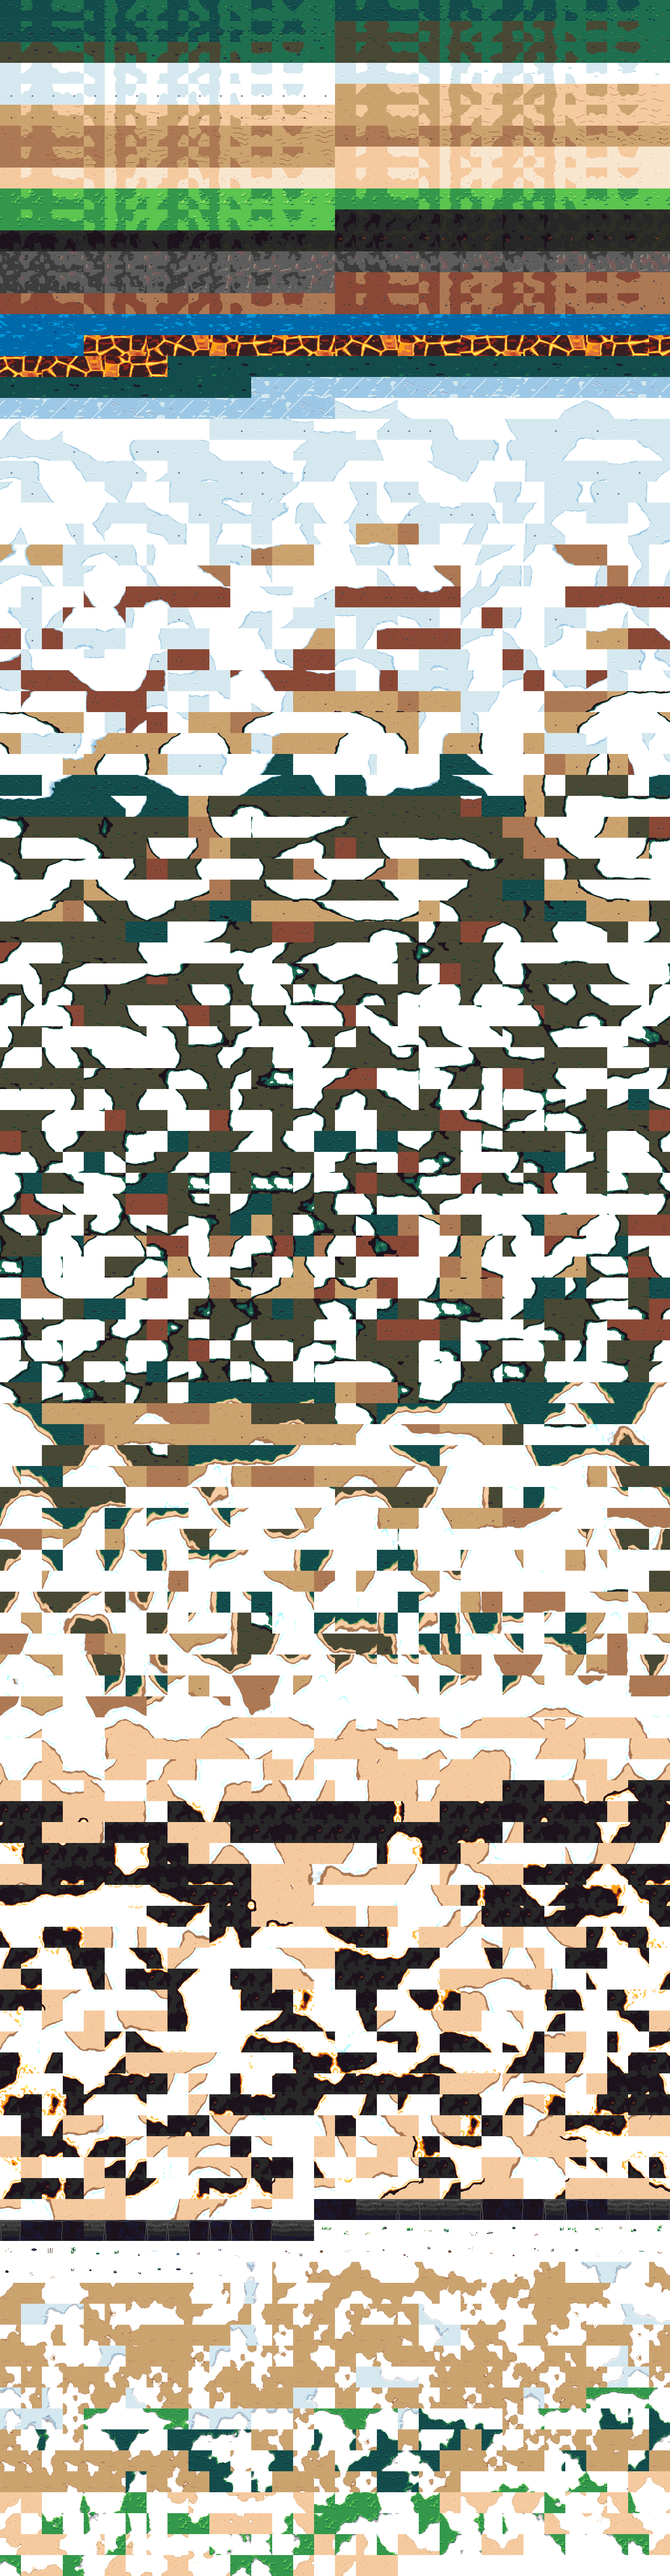
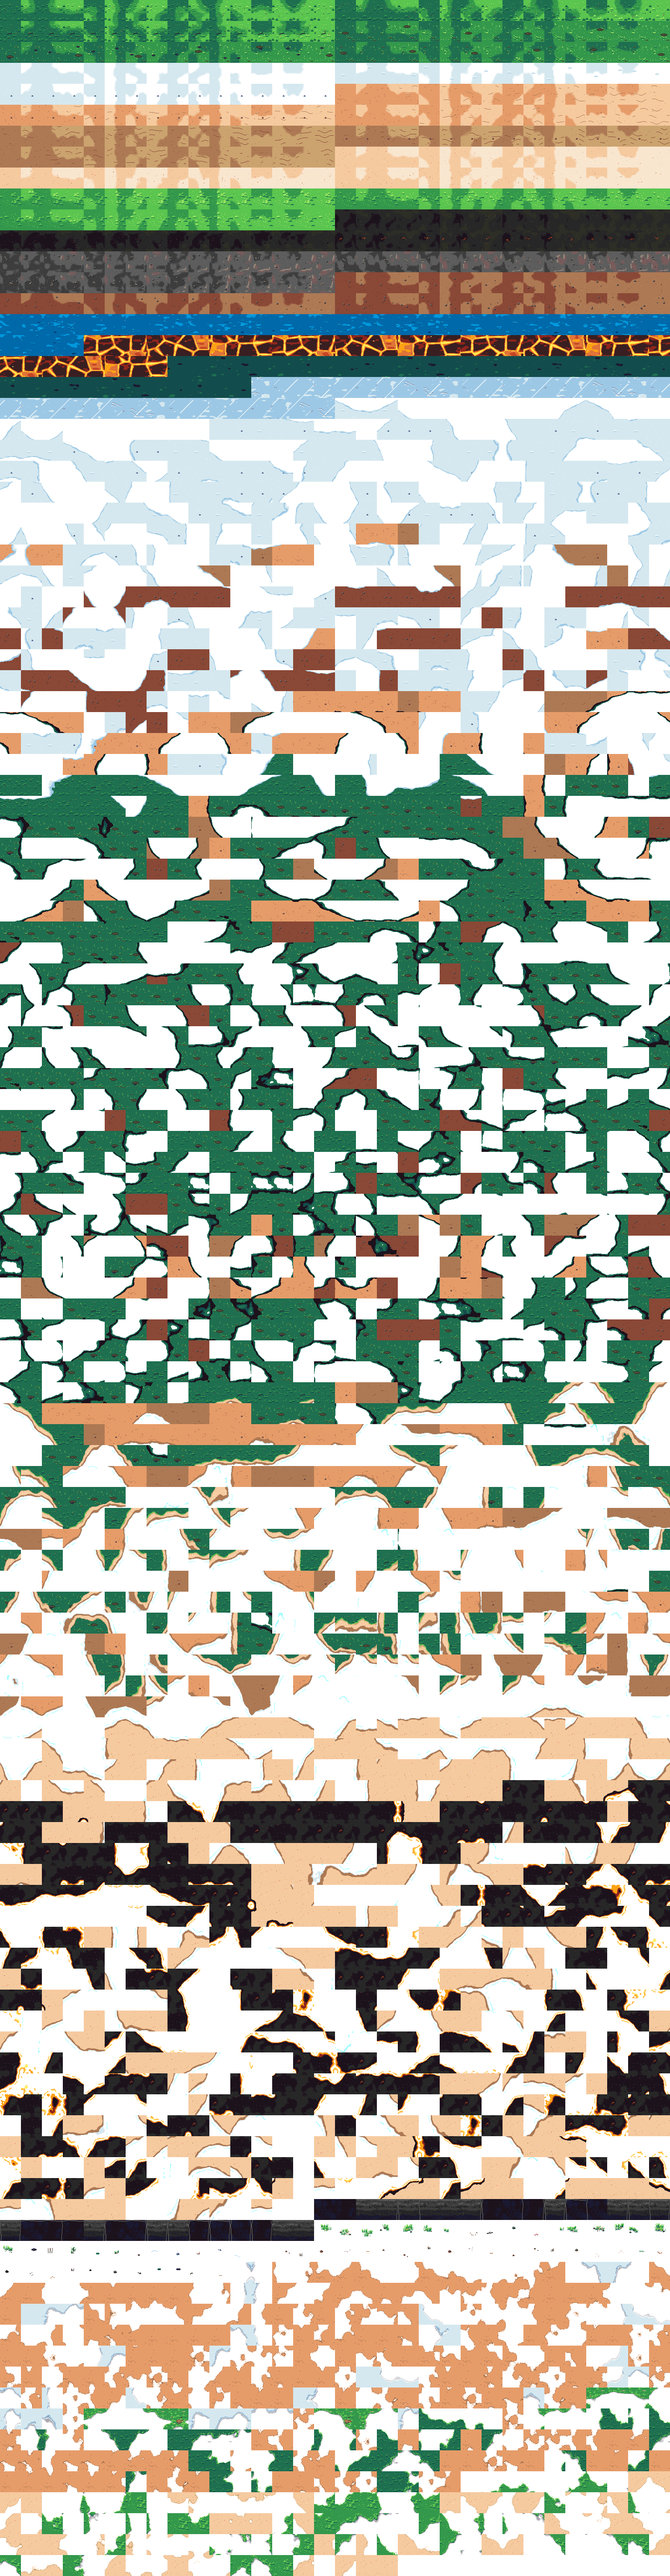
Chao: atlas extrudado (sem linhas azuis), grama 3 tons com dithering, vale naturalista regenerado, rotulos de placa unicos; ferramentas terrain-preview e generate-grass-sheet

diff --git a/src/game/RegionWorld.js b/src/game/RegionWorld.js
@@ -25,6 +25,8 @@ const CHUNK = 16;
 const GRASS_GID = 1;
 const TERRAIN_GID = 100;
 const UNDER_GID = 3000;
+const EXTRUDE = 1;
+const HINT_RANGE = 120;
 const SUBS = UNDER_SUBTILES * UNDER_SUBTILES;
 // Camada de baixo: mar (bloqueia), mar sob a borda, lava (bloqueia), lava sob a borda, lodo e gelo.
 const UNDER_SLOTS = [[T.SEA, true], [T.SEA, false], [T.LAVA, true], [T.LAVA, false], [T.MURK, false], [T.ICE, false]];
@@ -118,9 +120,11 @@ export class RegionWorld {
     // Evita sangramento de pixels entre células do atlas quando a câmera se move
     // em posições fracionárias (as linhas finas apareciam entre terrenos).
     scene.textures.get('grass')?.setFilter(Phaser.Textures.FilterMode.NEAREST);
-    scene.textures.get('terrain-tiles')?.setFilter(Phaser.Textures.FilterMode.NEAREST);
+    // Atlas com 1 px de borda repetida por ladrilho: com zoom fracionário (PC, 1,5x) a GPU lia o ladrilho
+    // vizinho do atlas e desenhava uma linha de 1 px (ex.: azul de água) nas emendas do chão.
+    const terrainKey = this.extrudeTileset('terrain-tiles');
     const grass = map.addTilesetImage('grass', 'grass', TILE, TILE, 0, 0, GRASS_GID);
-    const terrain = map.addTilesetImage('terrain', 'terrain-tiles', TILE, TILE, 0, 0, TERRAIN_GID);
+    const terrain = map.addTilesetImage('terrain', terrainKey, TILE, TILE, EXTRUDE, EXTRUDE * 2, TERRAIN_GID);
     // Textura da camada animada: um quadro de cada tipo lado a lado, redesenhada a cada passo.
     if (scene.textures.exists('under-tiles')) scene.textures.remove('under-tiles');
     this.underTexture = scene.textures.createCanvas('under-tiles', UNDER_SLOTS.length * SUBS * TILE, TILE);
@@ -183,8 +187,44 @@ export class RegionWorld {
     this.overlayLayer2?.setVisible(!light);
   }
 
+  /** Copia o atlas com margem EXTRUDE e espaçamento 2*EXTRUDE, repetindo a borda de cada ladrilho; descarta o original. */
+  extrudeTileset(key) {
+    const scene = this.scene;
+    const source = scene.textures.get(key).getSourceImage();
+    this.terrainSource = source;
+    const cols = Math.floor(source.width / TILE);
+    const rows = Math.floor(source.height / TILE);
+    const step = TILE + EXTRUDE * 2;
+    const outKey = `${key}-x`;
+    if (scene.textures.exists(outKey)) scene.textures.remove(outKey);
+    const texture = scene.textures.createCanvas(outKey, cols * step, rows * step);
+    const context = texture.getContext();
+    context.imageSmoothingEnabled = false;
+    for (let row = 0; row < rows; row += 1) {
+      for (let col = 0; col < cols; col += 1) {
+        const sx = col * TILE;
+        const sy = row * TILE;
+        const dx = EXTRUDE + col * step;
+        const dy = EXTRUDE + row * step;
+        context.drawImage(source, sx, sy, TILE, TILE, dx, dy, TILE, TILE);
+        context.drawImage(source, sx, sy, 1, TILE, dx - 1, dy, 1, TILE);
+        context.drawImage(source, sx + TILE - 1, sy, 1, TILE, dx + TILE, dy, 1, TILE);
+        context.drawImage(source, sx, sy, TILE, 1, dx, dy - 1, TILE, 1);
+        context.drawImage(source, sx, sy + TILE - 1, TILE, 1, dx, dy + TILE, TILE, 1);
+        context.drawImage(source, sx, sy, 1, 1, dx - 1, dy - 1, 1, 1);
+        context.drawImage(source, sx + TILE - 1, sy, 1, 1, dx + TILE, dy - 1, 1, 1);
+        context.drawImage(source, sx, sy + TILE - 1, 1, 1, dx - 1, dy + TILE, 1, 1);
+        context.drawImage(source, sx + TILE - 1, sy + TILE - 1, 1, 1, dx + TILE, dy + TILE, 1, 1);
+      }
+    }
+    texture.setFilter(Phaser.Textures.FilterMode.NEAREST);
+    texture.refresh();
+    scene.textures.remove(key); // libera a cópia original da GPU (a imagem fica em this.terrainSource)
+    return outKey;
+  }
+
   drawUnderFrame(frame) {
-    const source = this.scene.textures.get('terrain-tiles').getSourceImage();
+    const source = this.terrainSource;
     const context = this.underTexture.getContext();
     const columns = this.scene.cache.json.get('terrain-index')?.columns ?? 16;
     const index = this.tileIndex ?? this.scene.cache.json.get('terrain-index')?.index ?? {};
@@ -1133,11 +1173,15 @@ export class RegionWorld {
   updateHints() {
     const player = this.scene.player;
     const near = this.nearestFeature(player.x, player.y);
+    // Só o rótulo do ponto mais próximo aparece (e só de perto): perto de várias placas os nomes se empilhavam.
+    let closest = null;
+    let closestDistance = HINT_RANGE;
     for (const feature of this.features) {
-      const label = feature.sprite?.hintLabel;
-      if (!label) continue;
-      label.setVisible(Phaser.Math.Distance.Between(player.x, player.y, feature.x, feature.y) < 220);
+      if (!feature.sprite?.hintLabel) continue;
+      const distance = Phaser.Math.Distance.Between(player.x, player.y, feature.x, feature.y);
+      if (distance < closestDistance) { closest = feature; closestDistance = distance; }
     }
+    for (const feature of this.features) feature.sprite?.hintLabel?.setVisible(feature === closest);
     this.nearLabel = near?.label ?? null;
   }
 

diff --git a/src/art/terrain.js b/src/art/terrain.js
@@ -146,13 +146,34 @@ function calmField(kind, variant) {
   return field;
 }
 
-/** Tom do chão de grama (índice da rampa) em 2 valores: manchas largas, como na referência. */
-const GRASS_LEVELS = { [T.VALLEY]: [2, 4], [T.JUNGLE]: [2, 4], [T.FOREST]: [2, 3], [T.SWAMP]: [1, 3] };
-const grassLevel = (kind, t) => GRASS_LEVELS[kind][t < 0.5 ? 0 : 1];
+/** Tons do chão de grama (índices da rampa) em 3 degraus e os limiares do campo calmo entre eles. */
+const GRASS_LEVELS = { [T.VALLEY]: [2, 2, 3], [T.JUNGLE]: [2, 3, 3], [T.FOREST]: [1, 2, 3], [T.SWAMP]: [2, 2, 3] };
+const GRASS_CUTS = { [T.VALLEY]: [0.4, 0.62], [T.JUNGLE]: [0.4, 0.62], [T.FOREST]: [0.35, 0.65], [T.SWAMP]: [0.2, 0.42] };
+const grassLevel = (kind, t) => {
+  const [low, high] = GRASS_CUTS[kind];
+  const levels = GRASS_LEVELS[kind];
+  return levels[t < low ? 0 : t < high ? 1 : 2];
+};
+
+// Dithering ordenado (Bayer 4x4, período 4 divide 48): a divisa entre dois tons vira uma faixa de pixels
+// alternados de 1 px (pixel art de verdade, sem blur) e continua igual na emenda entre ladrilhos.
+const BAYER = [0, 8, 2, 10, 12, 4, 14, 6, 3, 11, 1, 9, 15, 7, 13, 5];
+const dither = (x, y) => (BAYER[(y & 3) * 4 + (x & 3)] / 16 - 0.47) * 0.1;
 
 function calmGrassFloor(canvas, kind, field) {
   const ramp = RAMP[kind];
-  for (let y = 0; y < S; y += 1) for (let x = 0; x < S; x += 1) canvas.pixel(x, y, ramp[grassLevel(kind, field[y * S + x])]);
+  for (let y = 0; y < S; y += 1) for (let x = 0; x < S; x += 1) canvas.pixel(x, y, ramp[grassLevel(kind, field[y * S + x] + dither(x, y))]);
+  // Lâminas soltas de 1 px: quebram o chão liso sem virar ruído (afastadas da borda para não abrir emenda).
+  const seed = kind * 17 + 3;
+  for (let i = 0; i < 46; i += 1) {
+    const x = 3 + Math.floor(hash(i, 1, seed) * (S - 6));
+    const y = 5 + Math.floor(hash(i, 2, seed) * (S - 9));
+    const level = grassLevel(kind, field[y * S + x]);
+    const up = hash(i, 3, seed) > 0.5;
+    canvas.pixel(x, y, ramp[Math.min(5, level + (up ? 1 : 0))]);
+    canvas.pixel(x, y - 1, ramp[Math.min(5, level + (up ? 2 : 1))]);
+    if (hash(i, 4, seed) > 0.55) canvas.pixel(x, y + 1, ramp[Math.max(0, level - 1)]);
+  }
 }
 
 /**
@@ -309,7 +330,7 @@ function softGround(canvas, kind, field, seed) {
   for (let y = 0; y < S; y += 1) {
     for (let x = 0; x < S; x += 1) {
       const t = field[y * S + x];
-      canvas.pixel(x, y, steps.find(([limit]) => t < limit)[1]);
+      canvas.pixel(x, y, steps.find(([limit]) => t + dither(x, y) < limit)[1]);
       const g = hash(x, y, seed);
       if (g > 0.997) canvas.pixel(x, y, kind === T.SNOW ? '#ffffff' : t > 0.5 ? r[4] : r[0]);
       else if (g < 0.002 && kind !== T.SNOW) canvas.pixel(x, y, r[1]);
@@ -347,7 +368,7 @@ function rockGround(canvas, kind, field, seed) {
   for (let y = 0; y < S; y += 1) {
     for (let x = 0; x < S; x += 1) {
       const t = field[y * S + x];
-      canvas.pixel(x, y, steps.find(([limit]) => t < limit)[1]);
+      canvas.pixel(x, y, steps.find(([limit]) => t + dither(x, y) < limit)[1]);
       // Luz do alto à esquerda nas "lombadas" do chão.
       if (kind === T.CAVE && x > 0 && y > 0 && field[y * S + x] - field[(y - 1) * S + x - 1] > 0.05 && field[y * S + x] > 0.6) canvas.pixel(x, y, r[5]);
       const g = hash(x, y, seed);
@@ -375,9 +396,10 @@ function base(canvas, kind, variant) {
     calmTufts(canvas, kind, calm, core, options);
     if (kind === T.VALLEY) {
       // Gramado naturalista: florais e seixos em pequenos grupos, com manchas de terra entre a grama.
-      {
-        const px = 10 + core * 10 + (variant % 3) * 3;
-        const py = 26 - core * 4 + (variant % 4) * 2;
+      // Só em parte das variantes: manchas de terra esparsas, sem desenhar uma grade de pontos.
+      if ((variant * 7 + core) % 4 === 0) {
+        const px = 10 + Math.floor(hash(variant, core, 91) * 28);
+        const py = 14 + Math.floor(hash(core, variant, 92) * 22);
         canvas.ellipse(px, py, 9 + core, 4 + (core % 2), '#8a4836');
         canvas.ellipse(px, py, 7 + core, 3, '#ad7954');
         canvas.pixel(px - 2, py - 2, '#f6ca9f');
@@ -402,6 +424,14 @@ function base(canvas, kind, variant) {
       });
       if (core === 2) { canvas.line(16, 30, 26, 27, '#391f21'); canvas.line(16, 31, 26, 28, ramp[0]); canvas.pixel(21, 28, '#5d2c28'); }
     } else if (kind === T.SWAMP) {
+      // Manchas de lama esparsas entre o capim (o chão é verde-escuro; a lama aparece em poucos ladrilhos).
+      if ((variant * 5 + core) % 3 === 0) {
+        const px = 11 + Math.floor(hash(variant, core, 93) * 26);
+        const py = 12 + Math.floor(hash(core, variant, 94) * 24);
+        canvas.ellipse(px, py, 8, 3, '#2d2e25');
+        canvas.ellipse(px, py, 7, 2.4, '#494834');
+        canvas.pixel(px - 2, py - 1, '#7a6a4a');
+      }
       // Poça de lama com brilho (só num dos miolos; o resto vem da decoração).
       scatterInner(s + 2, core === 1 ? 1 : 0, (x, y) => {
         canvas.ellipse(x, y, 4, 1.8, '#1c121c');
